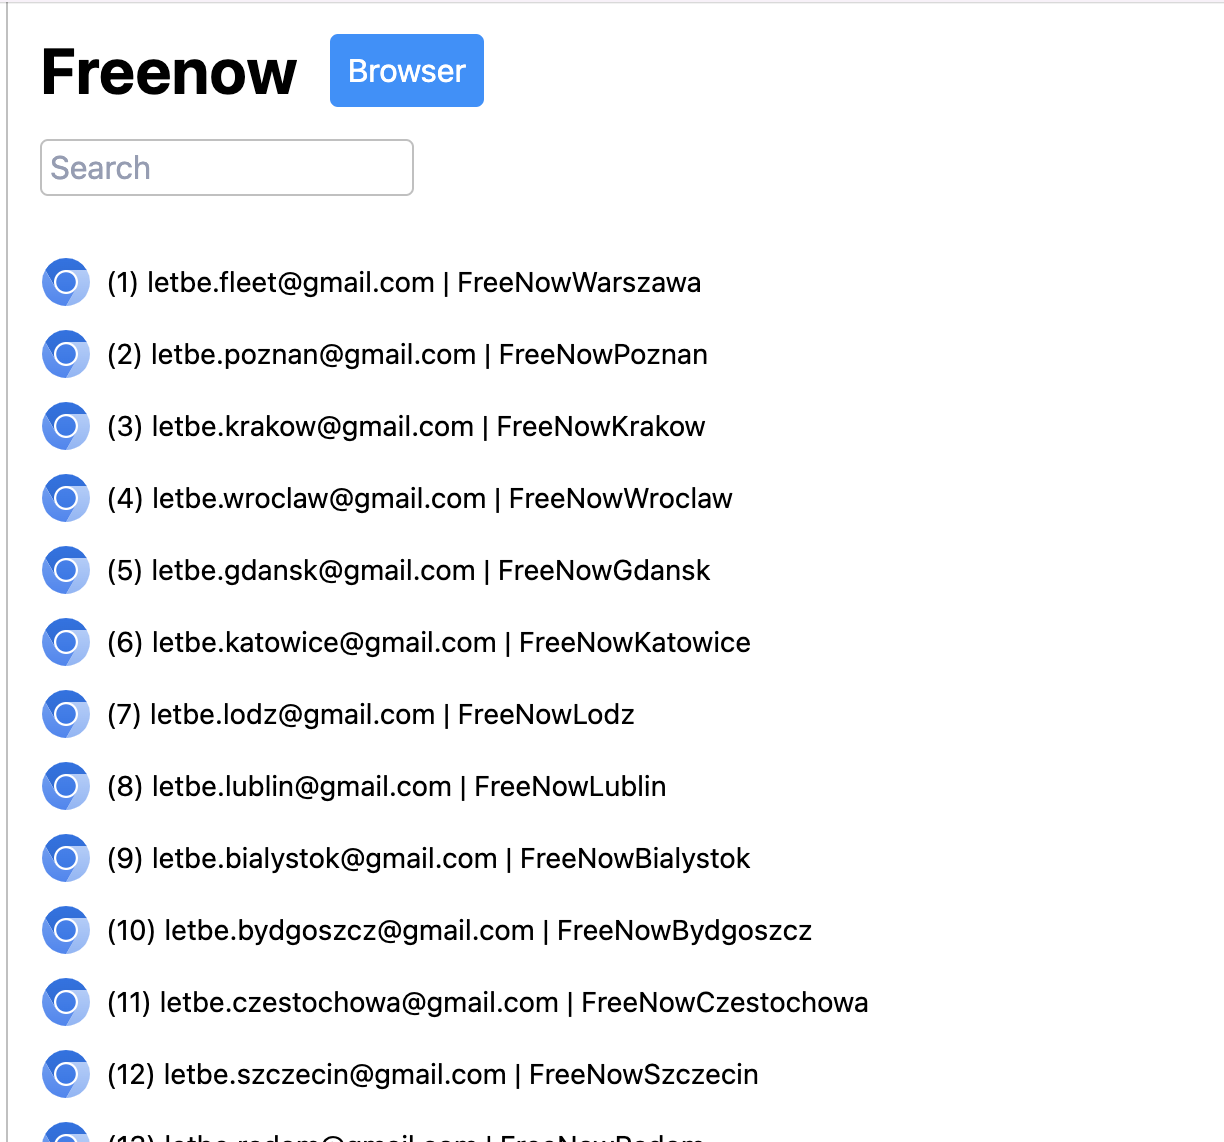
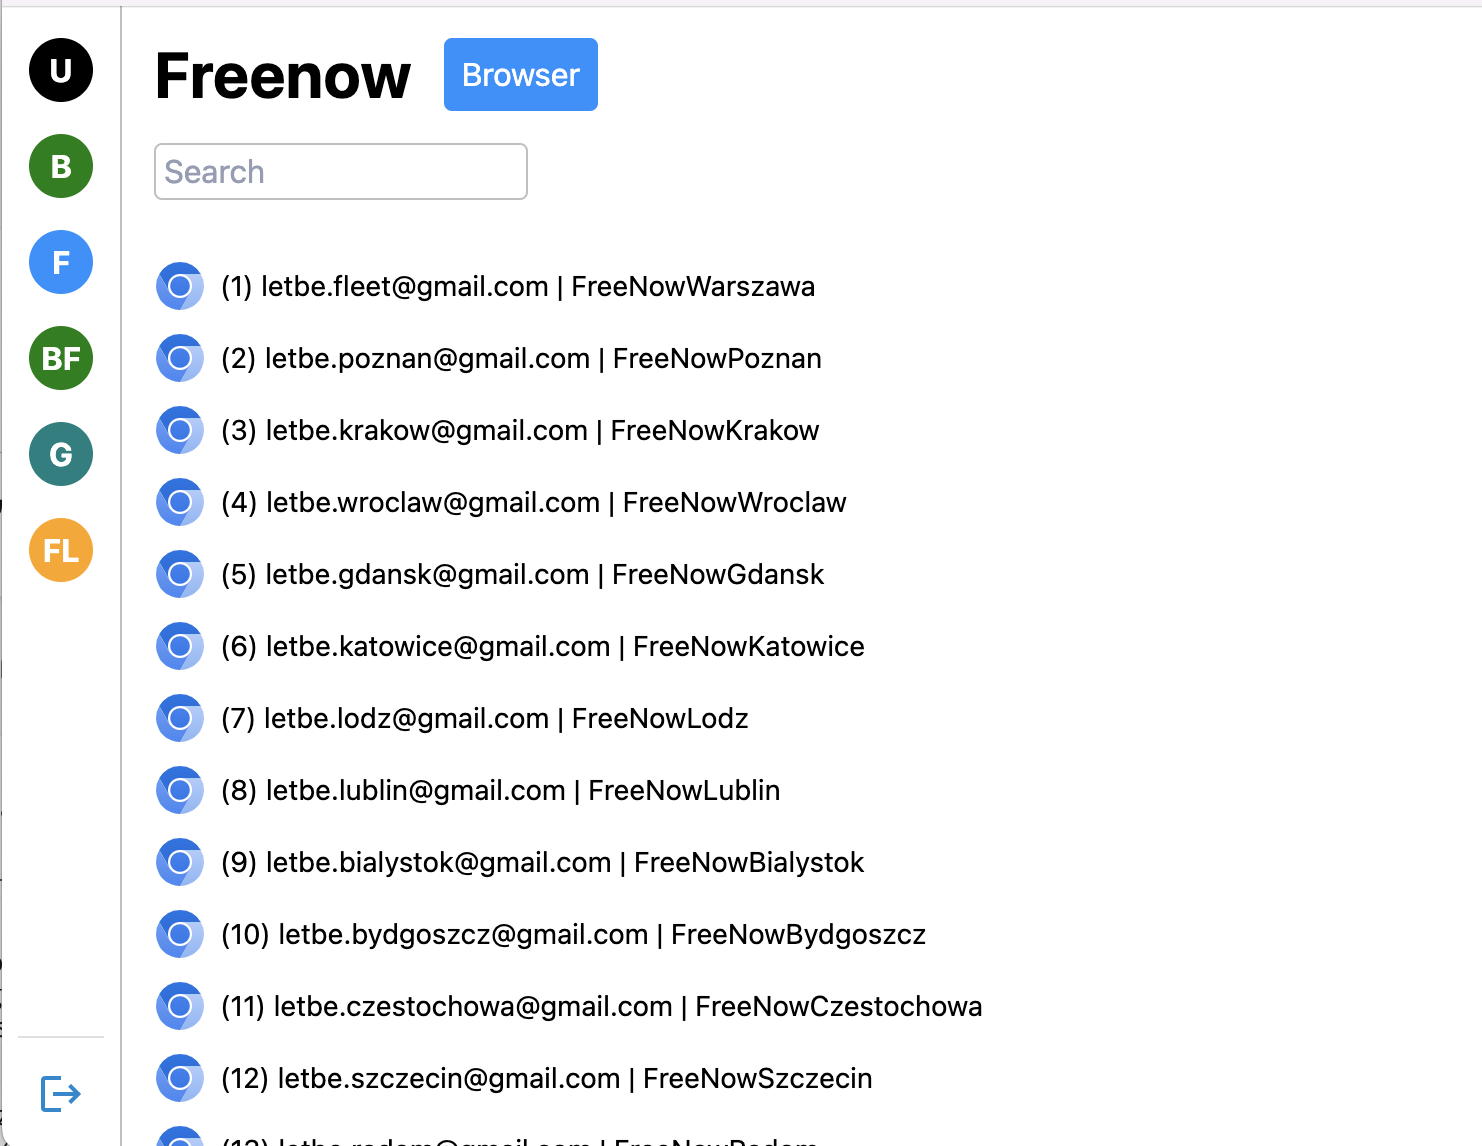
GITBOOK-204: change request with no subject merged in GitBook

diff --git a/obshaya-informaciya/dopolnitelnyi-servisy.md b/obshaya-informaciya/dopolnitelnyi-servisy.md
@@ -9,7 +9,7 @@ description: Autenti, Jotform, Promin Login
 > платформа для отправки договоров, проверки статуса подписи.
 
 * **Let\&Be** - основной договор делается именно на Let\&Be, его должен иметь каждый водитель или курьер подключенный к нам.&#x20;
-* **Litleo -** договор для выплат каждый день и приложений Glovo Wolt и Stuart.&#x20;
+* **Litleo -** договор для выплат каждый день и приложений Glovo Wolt, Stuart и Zabka Jush. &#x20;
 
 <figure><img src="../.gitbook/assets/telegram-cloud-photo-size-4-5942656921754518397-y.jpg" alt="" width="188"><figcaption></figcaption></figure>
 
@@ -28,9 +28,11 @@ description: Autenti, Jotform, Promin Login
 <figure><img src="../.gitbook/assets/image (49).png" alt="" width="375"><figcaption></figcaption></figure>
 
 Статус подписано с двух сторон - значит можно начинать подключение аккаунтов. Скриншот о статусе подписи мы отправляем человеку, по примеру ниже:\
-![](<../.gitbook/assets/image (50).png>)
+![](<../.gitbook/assets/image (50).png>)<br>
 
+2. Проверить договора можно в CRM:
 
+<figure><img src="../.gitbook/assets/image (70).png" alt=""><figcaption></figcaption></figure>
 
 ### [**Анкета/Jotform**](https://promin.jotform.com/share/azg4OHJsUnlGcnpDTWY4STR6WmFkcFhDajEyZXJlS2liZElRTzdxbVhRWDRWdVFZZ29TSGl1OU9zYm9Kd0xORWFpQ0E5UjF3aUNqTjU0U1dPcCtzUzdJRjUyQW5NVlF4cDd2TnVWelJjSDVEZjVWeTJZbjBVWmJSU3p5eFVGbE8=)
 

diff --git a/obshaya-informaciya/rabota-v-bote.md b/obshaya-informaciya/rabota-v-bote.md
@@ -21,3 +21,13 @@ description: Технические моменты и основа работы 
 <figure><img src="../.gitbook/assets/image (55).png" alt="" width="375"><figcaption></figcaption></figure>
 
 6. Успешный вход в бот
+7. При обработке чата наш отдел следит за тем, чтобы были отмечены категории:
+
+*   Подтвержденный (если данные человека верифицированы и подписан договор Let\&Be)
+
+    <figure><img src="../.gitbook/assets/telegram-cloud-photo-size-4-5771706696412631055-x.jpg" alt="" width="253"><figcaption></figcaption></figure>
+* Let\&be (если подписан договор)
+* Litleo (если подписан договор)
+* Договор VAT - Zasady rozliczenia faktur (если подписан договор)
+
+<figure><img src="../.gitbook/assets/telegram-cloud-photo-size-4-5771706696412631056-x.jpg" alt=""><figcaption></figcaption></figure>

diff --git a/registracii/freenow/README.md b/registracii/freenow/README.md
@@ -5,7 +5,7 @@
 * Отдел чатов отправляет черновик "Рег фри/ Приглос фри" с данными для регистрации в черновике или с указанием, что данные для регистрации в чате/информации, либо скриншот из уже активного FreeNow аккаунта с данными.  &#x20;
 * Выбираем флоту исходя из информации о городе работы клиента
 
-<figure><img src="../../.gitbook/assets/image (1).png" alt="" width="375"><figcaption></figcaption></figure>
+<figure><img src="../../.gitbook/assets/image (1) (1).png" alt="" width="375"><figcaption></figcaption></figure>
 
 * Выбираем пункт "Водители" — "Добавить водителя"
 
